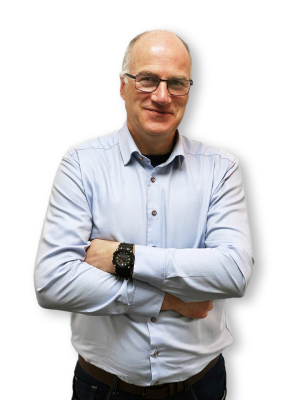
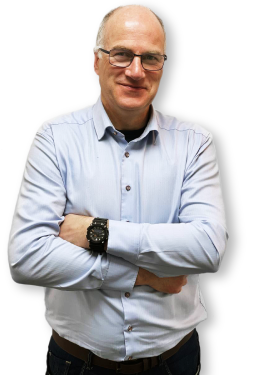
Update spacing and formatting

diff --git a/app/page.tsx b/app/page.tsx
@@ -32,7 +32,7 @@ export default function Home() {
         </div>
 
         {/* Calls to action */}
-        <div className="mb-32 grid text-center lg:max-w-5xl lg:w-full lg:mb-0 lg:grid-cols-4 lg:text-left">
+        <div className="grid text-center lg:max-w-5xl lg:w-full lg:mb-0 lg:grid-cols-4 lg:text-left">
           <a
             href="#services"
             className="group rounded-lg border border-transparent px-5 py-4 transition-colors hover:border-gray-300 hover:bg-gray-100 hover:dark:border-neutral-700 hover:dark:bg-neutral-800/30"
@@ -99,14 +99,14 @@ export default function Home() {
         </div>
       </div>
 
-      <section id="services" className="flex flex-col items-center justify-between p-24 bg-white">
+      <section id="services" className="flex justify-center p-24 bg-white">
         <div className="">
           <h1 className="text-5xl font-extrabold text-zinc-900">Services</h1>
           <p className="text-lg text-gray-500 divide-b">Complete manufacturing solutions, including work holding, tooling, NC programs & part manufacturing.</p>
           <hr className="hr mb-5" />
 
           <div className="flex flex-row flex-wrap justify-content-center">
-            <div className="basis-1/2">
+            <div className="">
               <Image
                 className="relative dark:drop-shadow-[0_0_0.3rem_#ffffff70] dark:invert"
                 src="/images/CadDrawing.gif"
@@ -116,7 +116,7 @@ export default function Home() {
               />
             </div>
 
-            <div className="basis-1/2">
+            <div className="pl-0 md:pl-20">
               <ul className="list-disc pt-6">
                 <li>Subcontract programming</li>
                 <li>3, 4 and 5 axis milling machines</li>
@@ -130,7 +130,7 @@ export default function Home() {
             </div>
           </div>
 
-          <div className="">
+          <div className="text-center">
             <ul className="buttons">
               <li>
                 <a href="#contact">
@@ -150,26 +150,8 @@ export default function Home() {
         </div>
       </section>
 
-      <section id="mastercam" className="flex flex-col items-center justify-between p-24 bg-zinc-700 text-white">
-        <div className="">
-          <a
-            className=""
-            href="https://www.mastercam.com/news/press-releases/mastercam-top-ranking/"
-            target="_blank"
-            rel="noopener noreferrer"
-          >
-            <h1 className="text-5xl font-extrabold text-white-900">#1 in NC Programming<br /> WORLDWIDE</h1>
-            <Image
-              className="relative dark:drop-shadow-[0_0_0.3rem_#ffffff70] dark:invert"
-              src="/NCchart.png"
-              alt="CadCamNI Logo"
-              width={850}
-              height={224}
-            />
-          </a>
-          <h3>Mastercam is the most widely used NC software package in the world!</h3>
-          <p>- Reported by CIMdata, Inc. for the 21st year in a row</p>
-          <h3>Mastercam has been delivering cutting-edge CAD/CAM software for over 30 years</h3>
+      <section id="mastercam" className="flex justify-center p-24 bg-zinc-700 text-white">
+        <div className="items-center">
 
           <a
             className=""
@@ -186,7 +168,40 @@ export default function Home() {
             />
           </a>
 
-          <div className="">
+          <a
+            className=""
+            href="https://www.mastercam.com/news/press-releases/mastercam-top-ranking/"
+            target="_blank"
+            rel="noopener noreferrer"
+          >
+            <h1 className="text-3xl font-extrabold text-white-900 pt-5 text-right">#1 in NC Programming WORLDWIDE</h1>
+            <Image
+              className="relative dark:drop-shadow-[0_0_0.3rem_#ffffff70] dark:invert"
+              src="/NCchart.png"
+              alt="CadCamNI Logo"
+              width={850}
+              height={224}
+            />
+          </a>
+
+          <figure className="max-w-screen-md mx-auto text-center mb-4">
+            <blockquote>
+              <p className="text-2xl italic font-medium dark:text-white">"Mastercam is the most widely used NC software package in the world!"</p>
+            </blockquote>
+            <figcaption className="flex items-center justify-center space-x-3 rtl:space-x-reverse">
+                <div className="flex items-center">
+                  <cite className="ps-3 text-sm text-gray-500 dark:text-gray-400">- Reported by CIMdata, Inc. for the 21st year in a row</cite>
+                </div>
+            </figcaption>
+          </figure>
+
+          <figure className="max-w-screen-md mx-auto text-center mb-4">
+            <blockquote>
+              <p className="text-2xl italic font-medium dark:text-white">Mastercam has been delivering cutting-edge CAD/CAM software for over 30 years</p>
+            </blockquote>
+          </figure>
+
+          <div className="text-center">
             <ul className="buttons">
               <li>
                 <a href="https://engtechgroup.com/cad-cam-software/mastercam/mastercam-mill/" target="_new">
@@ -209,11 +224,17 @@ export default function Home() {
               </li>
             </ul>
           </div>
+
+          <figure className="max-w-screen-md mx-auto text-center mt-4">
+            <blockquote>
+              <p className="text-l italic font-medium dark:text-white">"CNC Software, Inc. is dedicated to providing state-of-the-art software tools for CAD/CAM manufacturing markets. Our goal is to provide superior software products based on our users' needs to solve simple to complex design and machining problems."</p>
+            </blockquote>
+          </figure>
         </div>
       </section>
 
-      <section id="products" className="flex flex-col items-center justify-between p-24 bg-stone-200">
-        <div className="">
+      <section id="products" className="flex text-center justify-center p-24 bg-stone-200">
+        <div className="max-w-screen-md">
           <h1 className="text-5xl font-extrabold text-grey-900">REVERSE SCREWS</h1>
           <a
             className=""
@@ -228,9 +249,8 @@ export default function Home() {
               width={850}
               height={224}
             />
-          
           </a>
-          <p>Reverse screw work holding solutions supplier to aerospace, pharmaceutical and general precision engineering manufacturers. Founded by Design Engineer Kenneth Kelso. Based in Northern Ireland, supplying UK and Ireland since 2014.</p>
+          <p className="text-xl mb-5">Reverse screw work holding solutions supplier to aerospace, pharmaceutical and general precision engineering manufacturers. Founded by Design Engineer Kenneth Kelso. Based in Northern Ireland, supplying UK and Ireland since 2014.</p>
 
           <div className="">
             <ul className="buttons">
@@ -254,70 +274,69 @@ export default function Home() {
       </section>
 
       <section id="bio" className="flex flex-col items-center justify-between p-24 bg-indigo-200">
-        <div className="">
-          <Image
-            className="relative dark:drop-shadow-[0_0_0.3rem_#ffffff70] dark:invert"
-            src="/headshot5.png"
-            alt="Kenneth Kelso with arms folded smiling"
-            width={850}
-            height={224}
-          />
+        <div className="max-w-screen-md">
 
-          <div>
-            <h1 className="text-5xl font-extrabold text-grey-900">KENNETH KELSO</h1>
-            <br/>
-            <h3>Graduated from Ulster University Jordanstown 1995 with a degree in Mechanical Engineering.  Over 20 years experience in CNC programming for the automotive, aerospace and general engineering sectors.</h3>
-            <br/><br/>
-            <p>Smiths Engineering is CadCamNI's manufacturing partner, where concepts & final designs can be manufactured.</p>
+          <div className="flex flex-row flex-wrap justify-content-center">
+            <div className="basis-1/3">
+              <Image
+                className="relative dark:drop-shadow-[0_0_0.3rem_#ffffff70] dark:invert"
+                src="/headshot5.png"
+                alt="Kenneth Kelso with arms folded smiling"
+                width={200}
+                height={300}
+              />
+            </div>
+
+            <div className="basis-2/3">
+              <div>
+                <h1 className="text-5xl font-extrabold text-grey-900 mb-5">KENNETH KELSO</h1>
+                <h3 className="text-xl">Graduated from Ulster University Jordanstown 1995 with a degree in Mechanical Engineering.  Over 20 years experience in CNC programming for the automotive, aerospace and general engineering sectors.</h3>
+              </div>
+              
+            </div>
           </div>
 
-          <div className="">
-            <ul className="buttons">
-              <li>
-                <a href="https://uk.bombardier.com" target="_blank">
-                  <Image
-                    className="relative dark:drop-shadow-[0_0_0.3rem_#ffffff70] dark:invert"
-                    src="/bombardierLogo.png"
-                    alt="Bombardier Logo"
-                    width={150}
-                    height={80}
-                  />
-                </a>
-              </li>
-              <li>
-                <a href="https://www.smiths-engineering.com" target="_blank">
-                  <Image
-                    className="relative dark:drop-shadow-[0_0_0.3rem_#ffffff70] dark:invert"
-                    src="/smithsLogo.png"
-                    alt="Smiths Engineering Logo"
-                    width={150}
-                    height={80}
-                  />
-                </a>
-              </li>
-              <li>
-                <a href="https://kaneprecisionengineering.com" target="_blank">
-                  <Image
-                    className="relative dark:drop-shadow-[0_0_0.3rem_#ffffff70] dark:invert"
-                    src="/jwkaneLogo.png"
-                    alt="JWK Engineering Logo"
-                    width={150}
-                    height={80}
-                  />
-                </a>
-              </li>
-              <li>
-                <a href="https://magellan.aero" target="_blank">
-                  <Image
-                    className="relative dark:drop-shadow-[0_0_0.3rem_#ffffff70] dark:invert"
-                    src="/Magellan_Aerospace_Logo.png"
-                    alt="Magellan Aerospace Logo"
-                    width={150}
-                    height={80}
-                  />
-                </a>
-              </li>
-            </ul>
+
+          <div className="mt-10">
+            <h1 className="text-xl text-center">Working with clients like...</h1>
+            <div className="flex flex-wrap items-center justify-center">
+              <a href="https://uk.bombardier.com" target="_blank">
+                <Image
+                  className="relative dark:drop-shadow-[0_0_0.3rem_#ffffff70] dark:invert hover:opacity-50 p-5"
+                  src="/bombardierLogo.png"
+                  alt="Bombardier Logo"
+                  width={200}
+                  height={80}
+                />
+              </a>
+              <a href="https://www.smiths-engineering.com" target="_blank">
+                <Image
+                  className="relative dark:drop-shadow-[0_0_0.3rem_#ffffff70] dark:invert hover:opacity-50 p-5"
+                  src="/smithsLogo.png"
+                  alt="Smiths Engineering Logo"
+                  width={200}
+                  height={80}
+                />
+              </a>
+              <a href="https://kaneprecisionengineering.com" target="_blank">
+                <Image
+                  className="relative dark:drop-shadow-[0_0_0.3rem_#ffffff70] dark:invert hover:opacity-50 p-5"
+                  src="/jwkaneLogo.png"
+                  alt="JWK Engineering Logo"
+                  width={200}
+                  height={80}
+                />
+              </a>
+              <a href="https://magellan.aero" target="_blank">
+                <Image
+                  className="relative dark:drop-shadow-[0_0_0.3rem_#ffffff70] dark:invert hover:opacity-50 p-5"
+                  src="/Magellan_Aerospace_Logo.png"
+                  alt="Magellan Aerospace Logo"
+                  width={200}
+                  height={80}
+                />
+              </a>
+            </div>
           </div>
         </div>
       </section>
@@ -332,21 +351,27 @@ export default function Home() {
             height={224}
           />
 
-          <div id="contactUs" className="whitetxt center">
+          <div id="contactUs" className="flex text-white mt-10">
             <div className="">
               <h1>Contact</h1>
-              <h3>t:  07902521108</h3>
-              <h3>e:  kenneth.kelso@cadcamni.co.uk</h3>
+              <a href="phone:07902521108">
+                <h3>07902521108</h3>
+              </a>
+              <a href="mailto:kenneth.kelso@cadcamni.co.uk">
+                <h3>kenneth.kelso@cadcamni.co.uk</h3>
+              </a>
+              <a href="https://www.linkedin.com/in/kenneth-kelso/">
+                <h3>linkedin.com/in/kenneth-kelso</h3>
+              </a>
             </div>
-            <div className="box">
+            <div className="pl-10 pt-3">
               <Image
                 className="relative dark:drop-shadow-[0_0_0.3rem_#ffffff70] dark:invert"
                 src="/ni.png"
                 alt="Silouette of Northern Ireland"
-                width={100}
-                height={100}
+                width={120}
+                height={120}
               />
-                <img src="images/ni.png" alt="" width="40%"/>
             </div>
           </div>
         </div>
